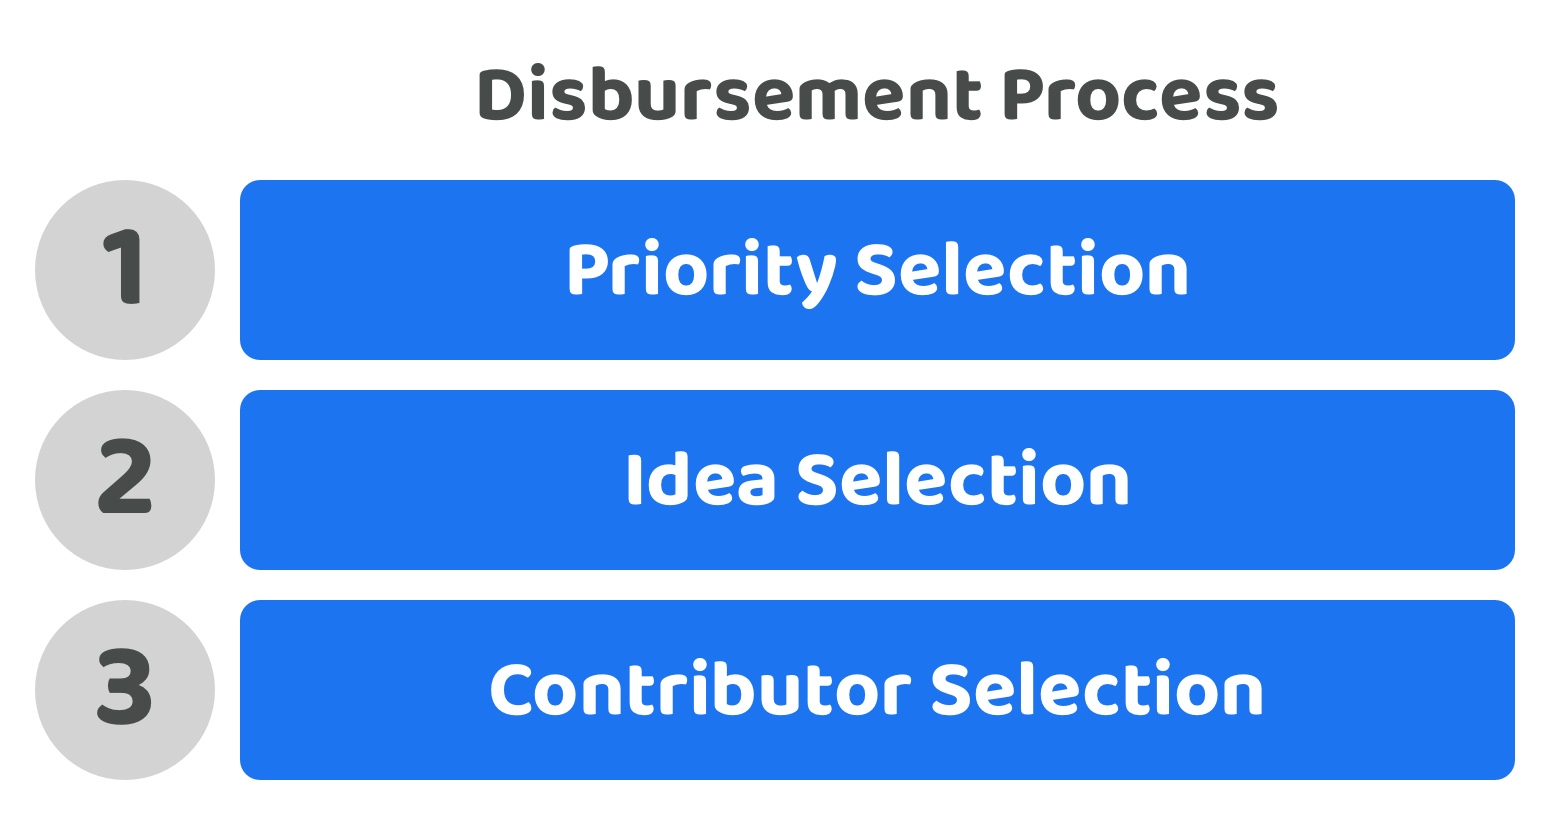
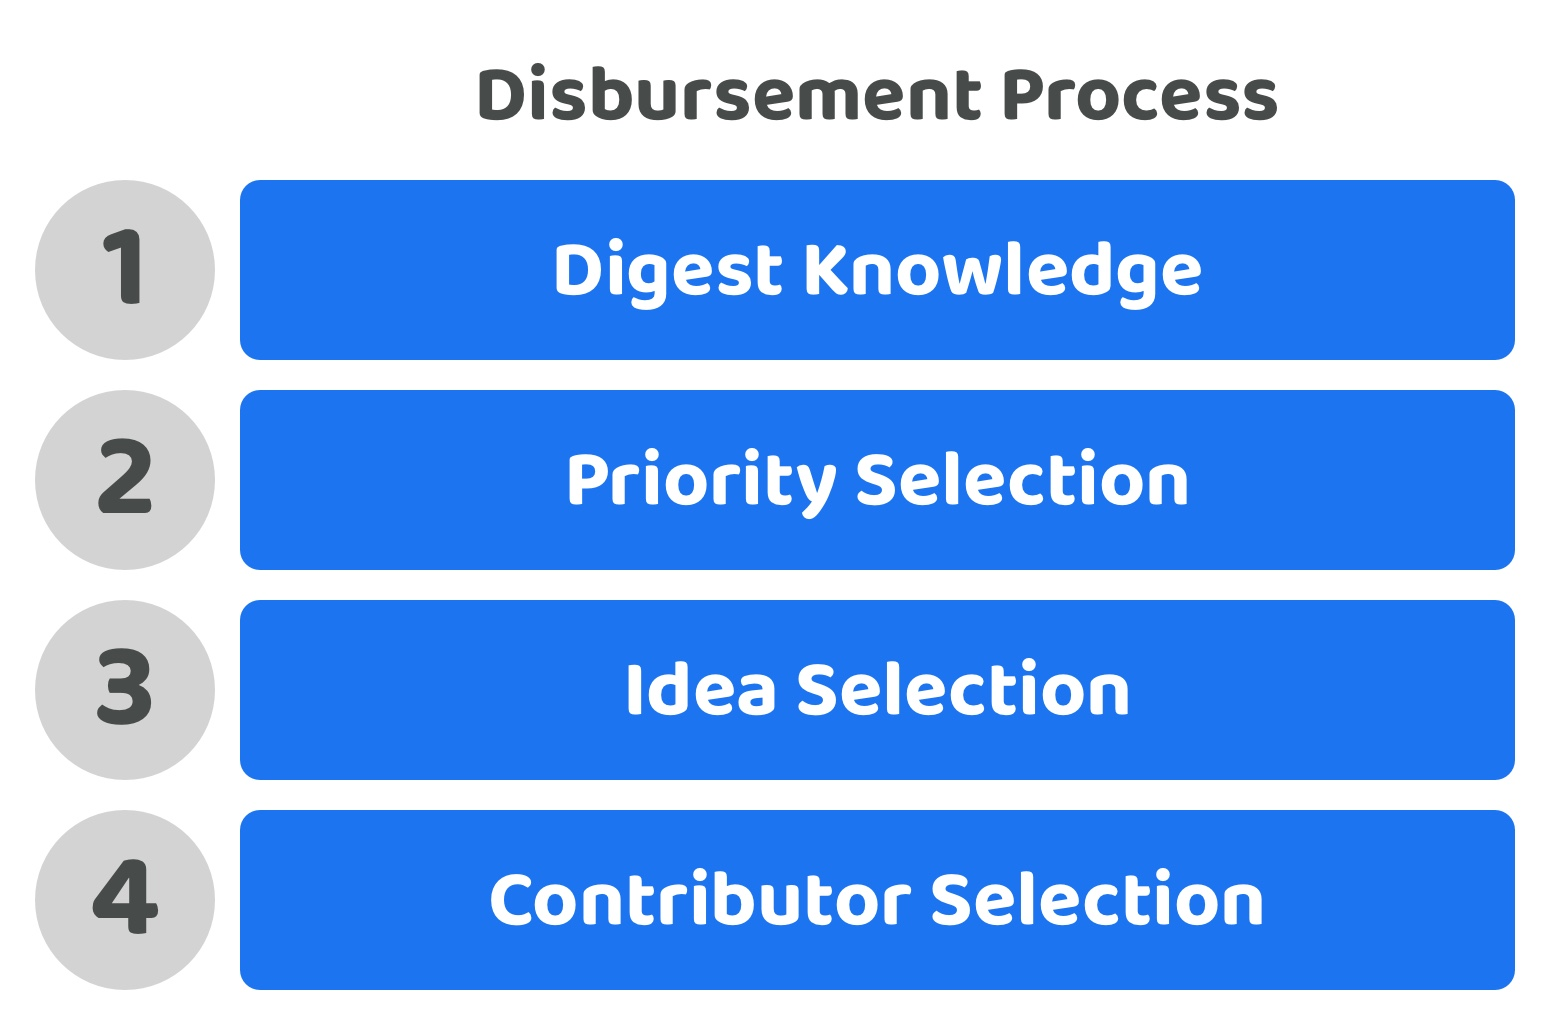
GITBOOK-59: change request with no subject merged in GitBook

diff --git a/disbursement-process/disbursement-approaches/README.md b/disbursement-process/disbursement-approaches/README.md
@@ -6,7 +6,9 @@ description: >-
 
 # Disbursement approaches
 
-A treasury may decide to disburse assets to fund initiatives that can help with addressing ecosystem priorities. A disbursement process could invite voters to help with selecting the most important priorities, ideas and contributors that could help with generating impactful outcomes.
+The disbursement of treasury assets is one effective approach for enabling an ecosystem to execute and generate desired outcomes.
+
+A high level summary of a disbursement process could be that voters are tasked with digesting any relevant knowledge about an ecosystem before then selecting the most important priorities, ideas and contributors that could help with generating impactful outcomes.
 
 <div align="left">
 
@@ -14,11 +16,18 @@ A treasury may decide to disburse assets to fund initiatives that can help with 
 
 </div>
 
-**Considerations towards knowledge**
+1. **Digest Knowledge** - Available knowledge within an ecosystem will play an important part in all of the selection processes involved in disbursement. Both automated systems and one off pieces of research or analysis can help with creating useful sources of information for voters. Voters having more access to quality knowledge sources will help ensure that they are more well informed when making any disbursement decisions.
+2. **Priority Selection** - Priorities help to highlight the most important problems and opportunities that exist in an ecosystem. Voters will apply their own understanding of the ecosystem and available knowledge to determine which priorities are the most important for the ecosystem at that moment in time. The selection of priorities can often influence which ideas and contributors get selected as the most promising and suitable for addressing those priorities.
+3. **Idea Selection** - Ideas helps to articulate a solution which could be executed that would help with addressing one or multiple priorities. Voters could participate in selecting the most promising ideas that can help with addressing the existing priorities in an ecosystem. &#x20;
+4. **Contributor Selection** - Contributors offer their time and skills to help with the execution of ideas. Voters could help with selecting the contributors that should be compensated and responsible for the execution of the most promising ideas.
 
-Ecosystem knowledge will also play an important part in the selection process for an ecosystems preferred priorities, ideas and contributors. Community members will select what information and knowledge they believe is most relevant when making their own informed disbursement decisions. In more complex disbursement processes there could be value in introducing a knowledge selection process before disbursement where community members share and vote on the pieces of analysis and information that they believe are the most relevant and important for the communities consideration in future disbursement decisions.
 
 
+How these different processes are composed together will greatly influence the level of complexity, flexibility and scalability of the overall disbursement process. These disbursement processes could be coupled together into a smaller number of processes or be handled separately.
+
+
+
+## Approaches for handling priorities, ideas and contributors
 
 A number of approaches could be used to decide and vote on which priorities, ideas and contributors are the most important or promising. A selection of those approaches include:
 
@@ -35,6 +44,18 @@ To compare these approaches a number of [factors have been considered](factors-f
 <figure><img src="../../.gitbook/assets/disbursement-approaches-comparison.png" alt=""><figcaption></figcaption></figure>
 
 The most expressive, flexible and least complex of the approaches outlined above were those that adopted independent processes for selecting the most impactful priorities, ideas and contributors. It is also worth noting that an ecosystem would be able to use any mixture of these mentioned approaches above. Different disbursement processes for different purposes may provide a better long term solution for each ecosystem.
+
+
+
+## Approaches for handling knowledge
+
+At the point of making any disbursement decisions the voters involved will have some pre-existing knowledge based on their own experiences and skill sets and also have access to publicly available knowledge about different ecosystems and topic areas.
+
+Voters will decide how much time they want to spend on identifying new knowledge that could help them with making more informed disbursement decisions. Voters may decide not to digest new information for a number of reasons. One could be because they don't trust the source of the new information. Another reason could be that they believe they already have enough knowledge to make informed decisions. Another reason could be they simply don't have enough time available to go through the knowledge sources.&#x20;
+
+A disbursement process will benefit from making it easy to access knowledge that is relevant and accurate so that voters are able to make more well informed disbursement decisions. Some example potential areas of knowledge could be helping voters be able to easily find out what has been funded historically, what priorities or ideas have been completed and which ideas or contributors have been the most effective at generating impact for the ecosystem.
+
+For more complex disbursement processes there could be value in exploring a knowledge selection process before voters are tasked with the selection of priorities, ideas and contributors. Voters may benefit from being able to share and vote on the relevance and accuracy of different sources of knowledge that have been presented to the ecosystem. The most important pieces of knowledge could then become more well known in the ecosystem prior to making any future disbursement decisions.
 
 
 
